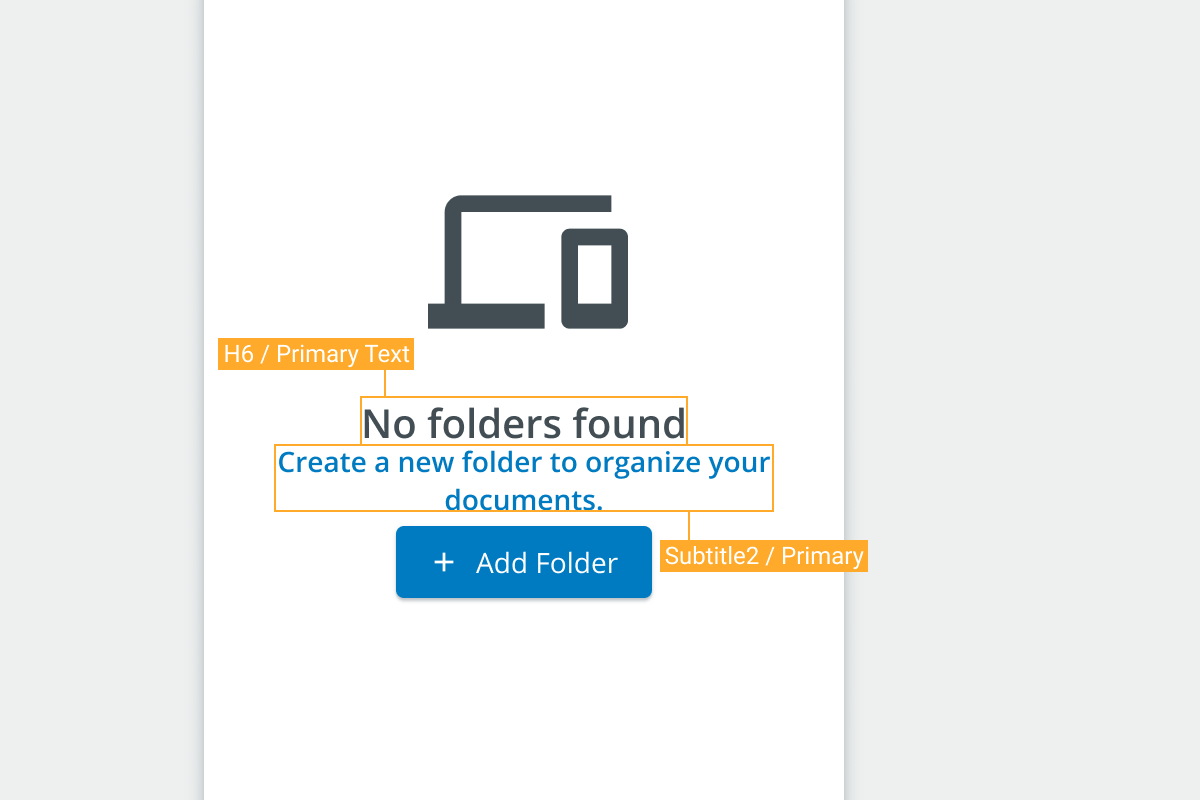
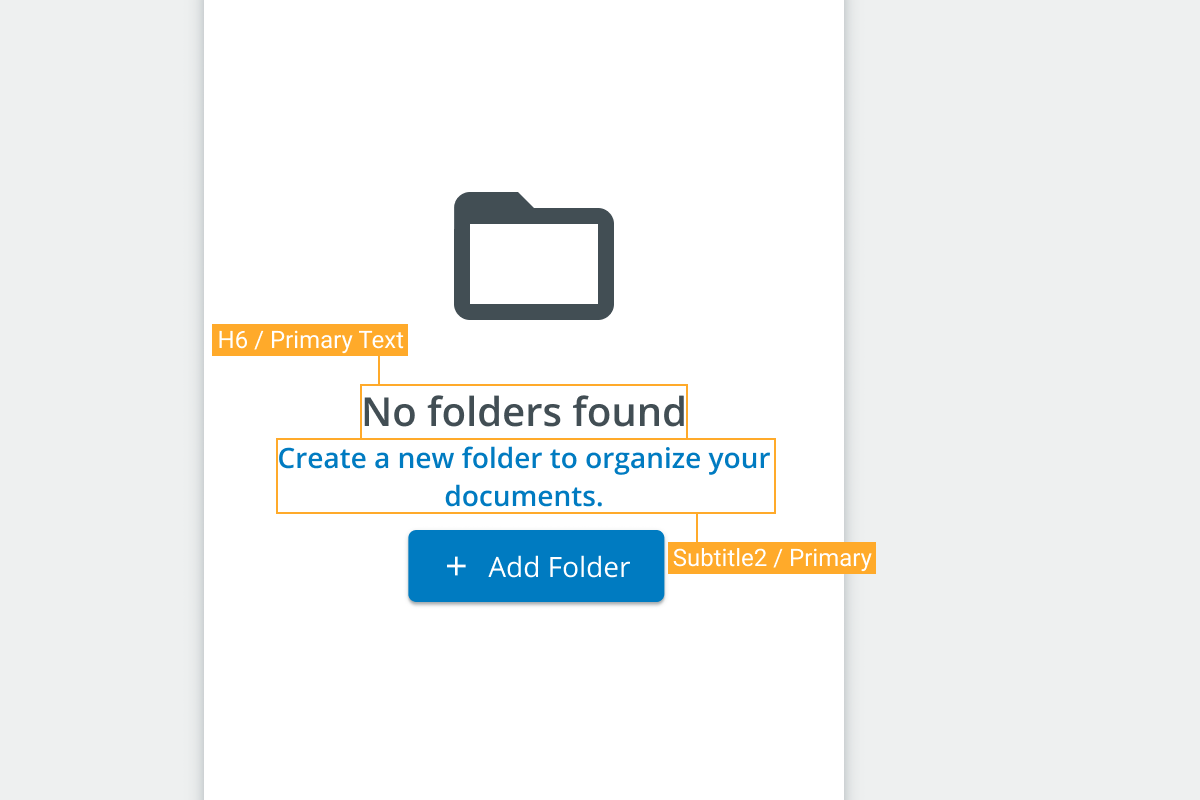
Update graphics for empty state

Changed region(s): [[0.1542, 0.2188, 0.74, 0.7812]]

diff --git a/src/__configuration__/patterns/index.tsx b/src/__configuration__/patterns/index.tsx
@@ -1,5 +1,5 @@
 import AppBarsImg from '../../app/assets/design-patterns/app-bar/collapsible-appbar/collapsible-appbar-expanded.png';
-import EmptyStatesImg from '../../app/assets/design-patterns/empty-states/empty-states.png';
+import EmptyStatesImg from '../../app/assets/design-patterns/empty-states/empty-state-square.png';
 import FormValidationImg from '../../app/assets/design-patterns/form-validation/form-validation-feedback-thumb.png';
 import InternationalizationImg from '../../app/assets/design-patterns/internationalization/internationalization.png';
 import ListImg from '../../app/assets/design-patterns/action-list/action-list.png';
